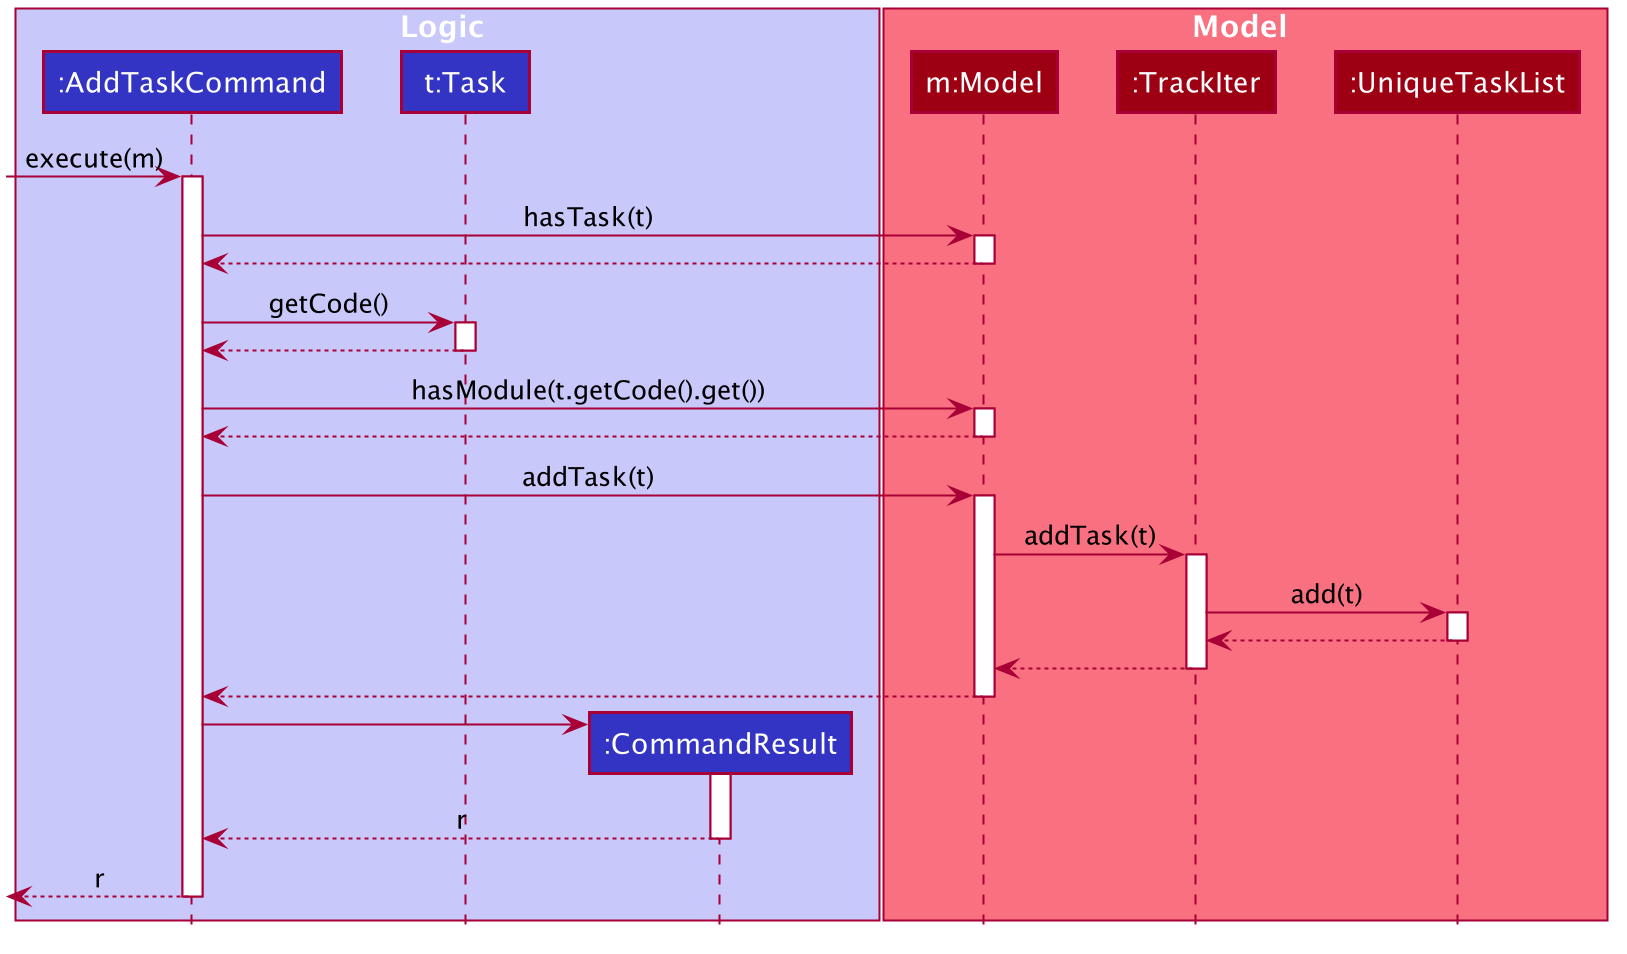
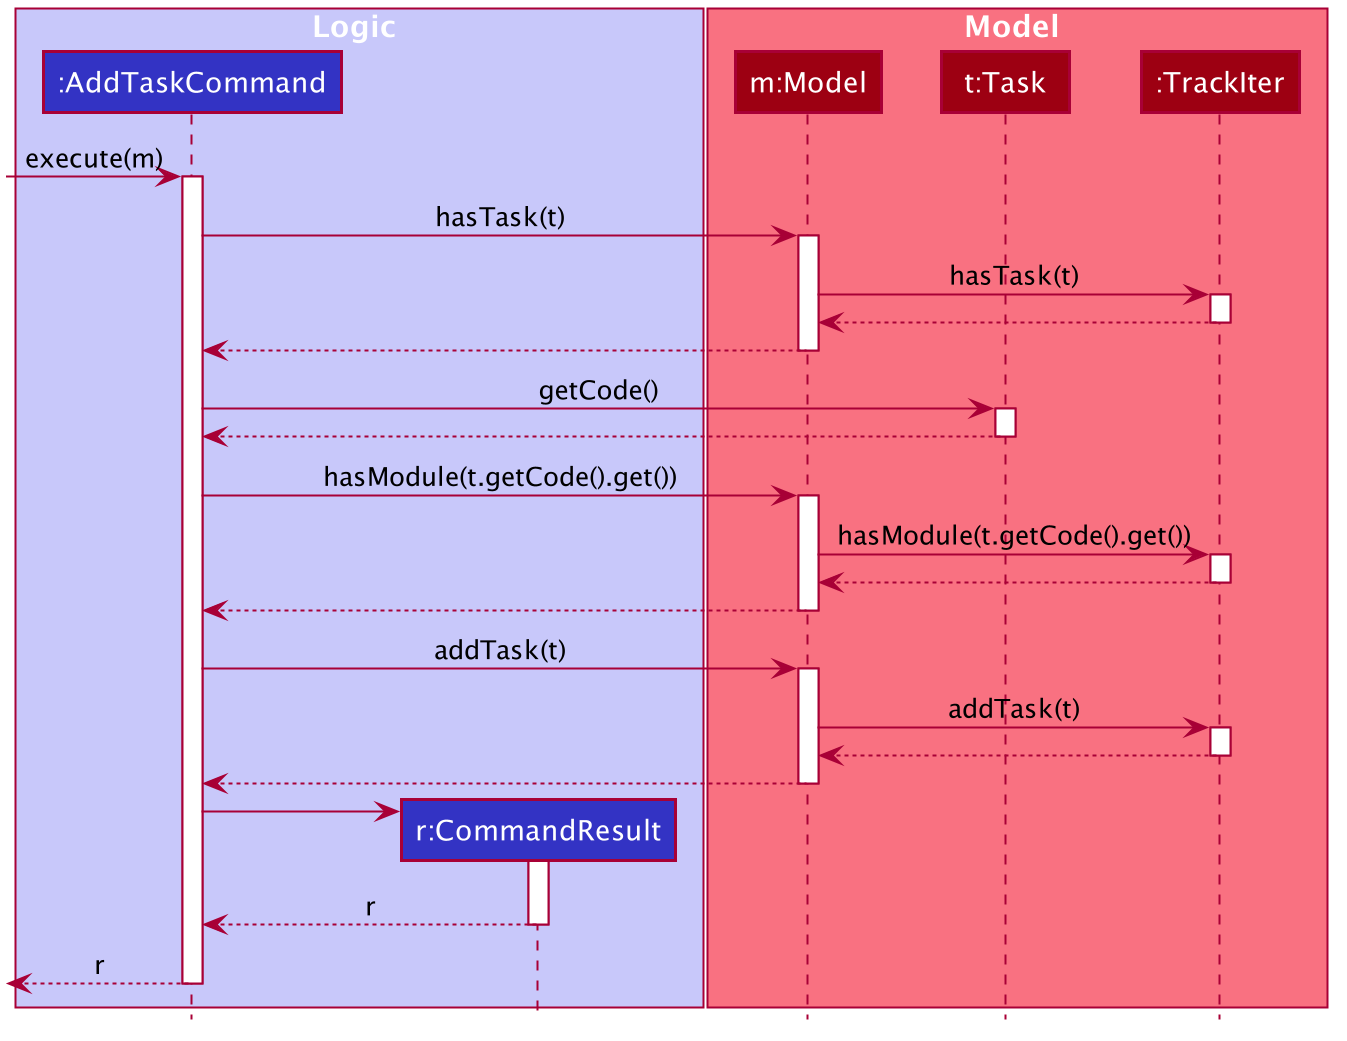
Improve sequence diagrams and add activity diagrams

Changed region(s): [[0.0, 0.0, 0.9978, 0.9727], [0.2806, 0.5776, 0.3118, 0.608]]

diff --git a/docs/DeveloperGuide.md b/docs/DeveloperGuide.md
@@ -321,39 +321,53 @@ The add, delete, and edit commands are all implemented in similar ways. When the
  * update the `UniqueTaskList` depending on the command
  * Save the updated task list to `data/trackIter.json`
  * return the relevant CommandResult message
+
+The following steps will describe the execution of the `AddTaskCommand`, assuming no errors are encountered:
  
-When `AddTaskCommand` is executed, it will first call the model's `hasTask` method to ensure that the task does not
- yet exist in the app. Following this, if the task is added with a non-null module code, it will call the model's
-  `hasModule` method to ensure that the specified module exists. If both these checks pass, `AddTaskCommand` will
-   call the model's `addTask` method.
-   
-The model will then call the `addTask` method of TrackIter, which calls the `add` method of UniqueTaskList and adds
- the task to the app.
+1. When `AddTaskCommand` is executed, it will first call the model's `hasTask` method 
+2. This is to ensure that the task does not yet exist in the app
+3. Following this, if the task is added with a non-null module code, it will call the model's
+  `hasModule` method 
+4. This is to ensure that the specified module exists
+5. If both these checks pass, `AddTaskCommand` will call the model's `addTask` method.
+6. The model will then call the `addTask` method of TrackIter, and adds the task to the app.
+
+![Add Task Activity Diagram](images/AddTaskActivityDiagram.png)
 
 The following shows the sequence diagram of the `AddTaskCommand`.
 
 ![Add Task Sequence Diagram](images/AddTaskSequenceDiagram.png)
 
-When the `DeleteTaskCommand` is executed, it will first call the model's `getFilteredTaskList` method to
- determine the last shown list of tasks. Then, it will call the index's `getZeroBased` method to find the
- zero-based index of the task it must delete. Then, it will check if this index is within range. If it is, it
- calls the model's `deleteTask` method.
- 
-The model will then call the `removeTask` method of TrackIter, which calls the `remove` method of UniqueTaskList and
- deletes the task in question from the app.
+The following steps will describe the execution of the `DeleteTaskCommand`, assuming no errors are encountered:
+
+1. When the `DeleteTaskCommand` is executed, it will first call the model's `getFilteredTaskList` method 
+2. This is to determine the last shown list of tasks
+3. Then, it will call the index's `getZeroBased` method 
+4. This is to find the zero-based index of the task it must delete
+5. Then, it will check if this index is within range
+6. If it is, it calls the model's `deleteTask` method.
+7. The model will then call the `removeTask` method of TrackIter, which deletes the task in question from the app.
+
+![Delete Task Activity Diagram](images/DeleteTaskActivityDiagram.png)
 
 The following shows the sequence diagram of the `DeleteTaskCommand`.
 
 ![Delete Task Sequence Diagram](images/DeleteTaskSequenceDiagram.png)
 
-When the `EditTaskCommand` is executed, it will first call the model's `getFilteredTaskList` method to determine the
- last shown list of tasks. Then, it will call the index's `getZeroBased` method to find the zero-basd index of the
-  task we must edit. It will then check if the index is within range. If it is, it calls the model's `setTask` method.
-  
-The model will then call the `setTask` method of TrackIter, which calls the `setTask` method of UniqueTaskList and
- replace the original task with the edited version in the app.
+The following steps will describe the execution of the `EditTaskCommand`, assuming no errors are encountered:
 
-The follow shows the sequence diagram of the `EditTaskCommand`.
+1. When the `EditTaskCommand` is executed, it will first call the model's `getFilteredTaskList` method
+2. This is to determine the last shown list of tasks
+3. Then, it will call the index's `getZeroBased` method 
+4. This is to find the zero-based index of the task we must edit
+5. It will then check if the index is within range
+6. If it is, it calls the model's `setTask` method
+7. The model will then call the `setTask` method of TrackIter, which replaces the original task with the edited
+ version in the app.
+ 
+![Edit Task Command Activity Diagram](images/EditTaskCommandActivityDiagram.png)
+
+The follow shows the sequence diagram of the `EditTaskCommand` assuming no errors are encountered.
 
 ![Edit Task Sequence Diagram](images/EditTaskSequenceDiagram.png)
 
